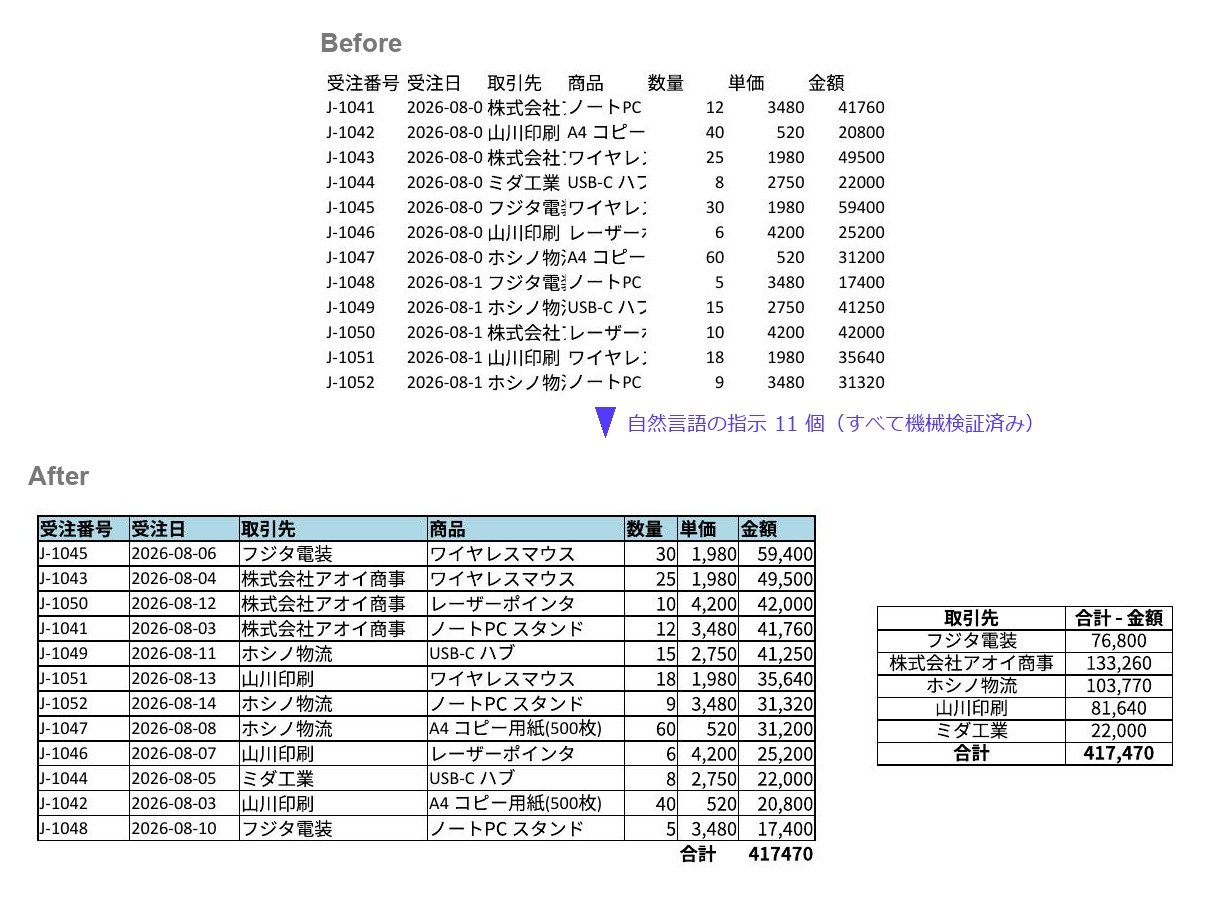
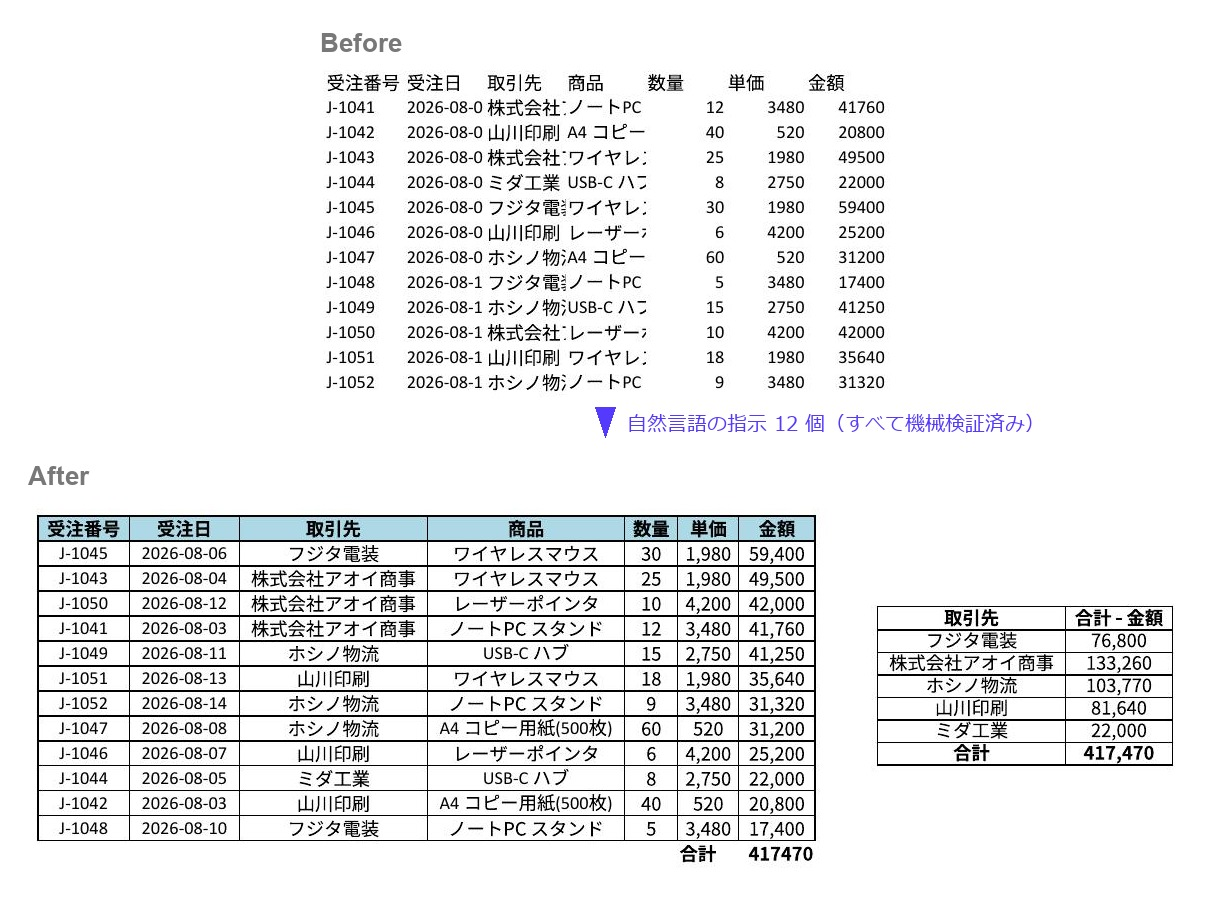
デモに 12 個目の指示（表全体の中央揃え・機械検証済み）を追加 — Namakoo の指定

Changed region(s): [[0.0306, 0.5606, 0.6722, 0.9344]]

diff --git a/ailine.html b/ailine.html
@@ -60,8 +60,8 @@
   </div>
 </section>
 
-<div class="band"><figure class="mat"><img src="assets/ailine-workflow.jpg?v=5" alt="Before: 書式のない受注台帳。自然言語の指示 11 個の後の After: 金額の降順・合計行・見出しの太字と水色・桁区切り・罫線・列幅の自動調整・取引先ごとの集計シート"></figure></div>
-<p class="cap">上の <b>Before</b> が入力（書式のない受注台帳・データは架空のサンプルです）。自然言語の指示 <b>11 個</b>で下の <b>After</b> になりました ― 金額の降順・合計行（<b>どの行を検証したか</b>まで機械が言います）・見出しの太字と水色・桁区切り・罫線・列幅の自動調整・そして取引先ごとの<b>集計シート</b>。各指示とも適用後に読み戻して機械検証済み。Excel は使っていません</p>
+<div class="band"><figure class="mat"><img src="assets/ailine-workflow.jpg?v=6" alt="Before: 書式のない受注台帳。自然言語の指示 12 個の後の After: 金額の降順・合計行・見出しの太字と水色・桁区切り・罫線・列幅の自動調整・取引先ごとの集計シート"></figure></div>
+<p class="cap">上の <b>Before</b> が入力（書式のない受注台帳・データは架空のサンプルです）。自然言語の指示 <b>12 個</b>で下の <b>After</b> になりました ― 金額の降順・合計行（<b>どの行を検証したか</b>まで機械が言います）・見出しの太字と水色・桁区切り・罫線・列幅の自動調整・表全体の中央揃え・そして取引先ごとの<b>集計シート</b>。各指示とも適用後に読み戻して機械検証済み。Excel は使っていません</p>
 
 <section class="sec alt" id="how">
   <div class="wrap">

diff --git a/ailine.en.html b/ailine.en.html
@@ -60,8 +60,8 @@
   </div>
 </section>
 
-<div class="band"><figure class="mat"><img src="assets/ailine-workflow.jpg?v=5" alt="Before: an unformatted order ledger. After 11 natural-language instructions: sorted by amount, total row, bold light-blue headers, thousands separators, borders, auto-fit columns, and a per-client summary sheet"></figure></div>
-<p class="cap"><b>Before</b> (top) is the input — an unformatted order ledger with fictional sample data. <b>11 natural-language instructions</b> later it became <b>After</b> — sorted by amount, a total row (the machine states <b>which row it verified</b>), bold light-blue headers, thousands separators, borders, auto-fit columns, and a per-client <b>summary sheet</b>. Every step was read back and machine-verified. No Excel involved</p>
+<div class="band"><figure class="mat"><img src="assets/ailine-workflow.jpg?v=6" alt="Before: an unformatted order ledger. After 12 natural-language instructions: sorted by amount, total row, bold light-blue headers, thousands separators, borders, auto-fit columns, and a per-client summary sheet"></figure></div>
+<p class="cap"><b>Before</b> (top) is the input — an unformatted order ledger with fictional sample data. <b>12 natural-language instructions</b> later it became <b>After</b> — sorted by amount, a total row (the machine states <b>which row it verified</b>), bold light-blue headers, thousands separators, borders, auto-fit columns, centered cells, and a per-client <b>summary sheet</b>. Every step was read back and machine-verified. No Excel involved</p>
 
 <section class="sec alt" id="how">
   <div class="wrap">
